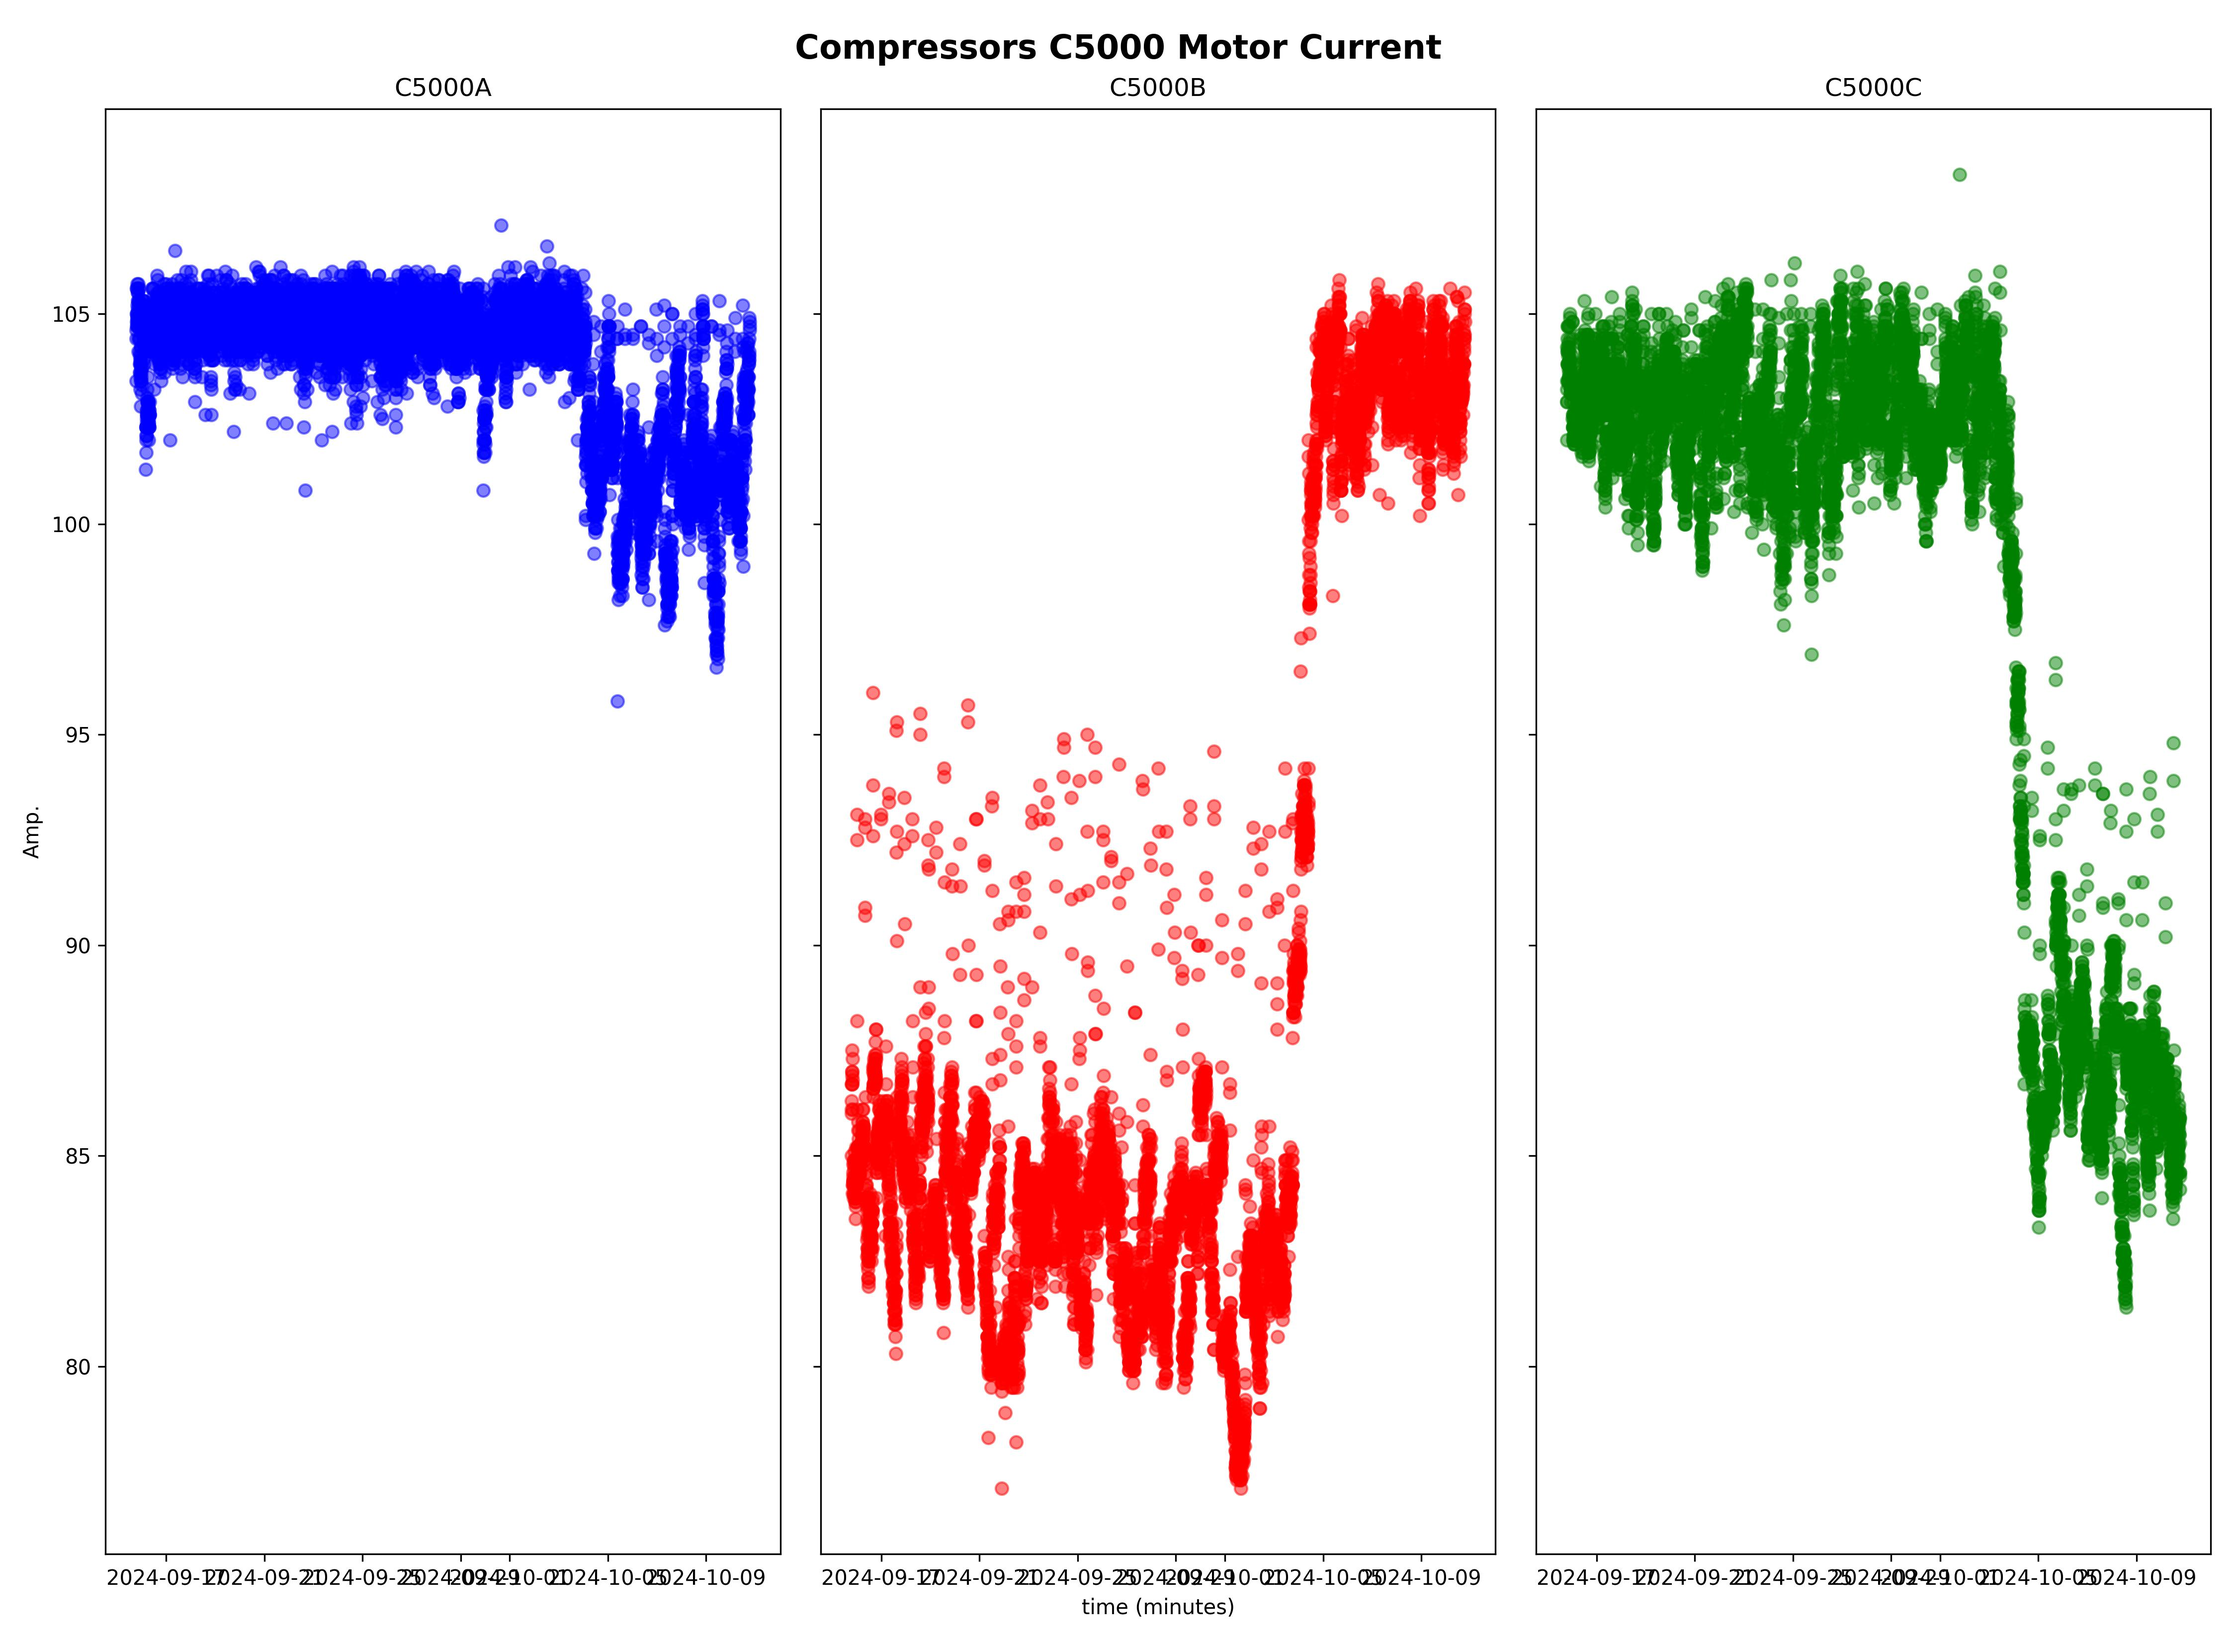
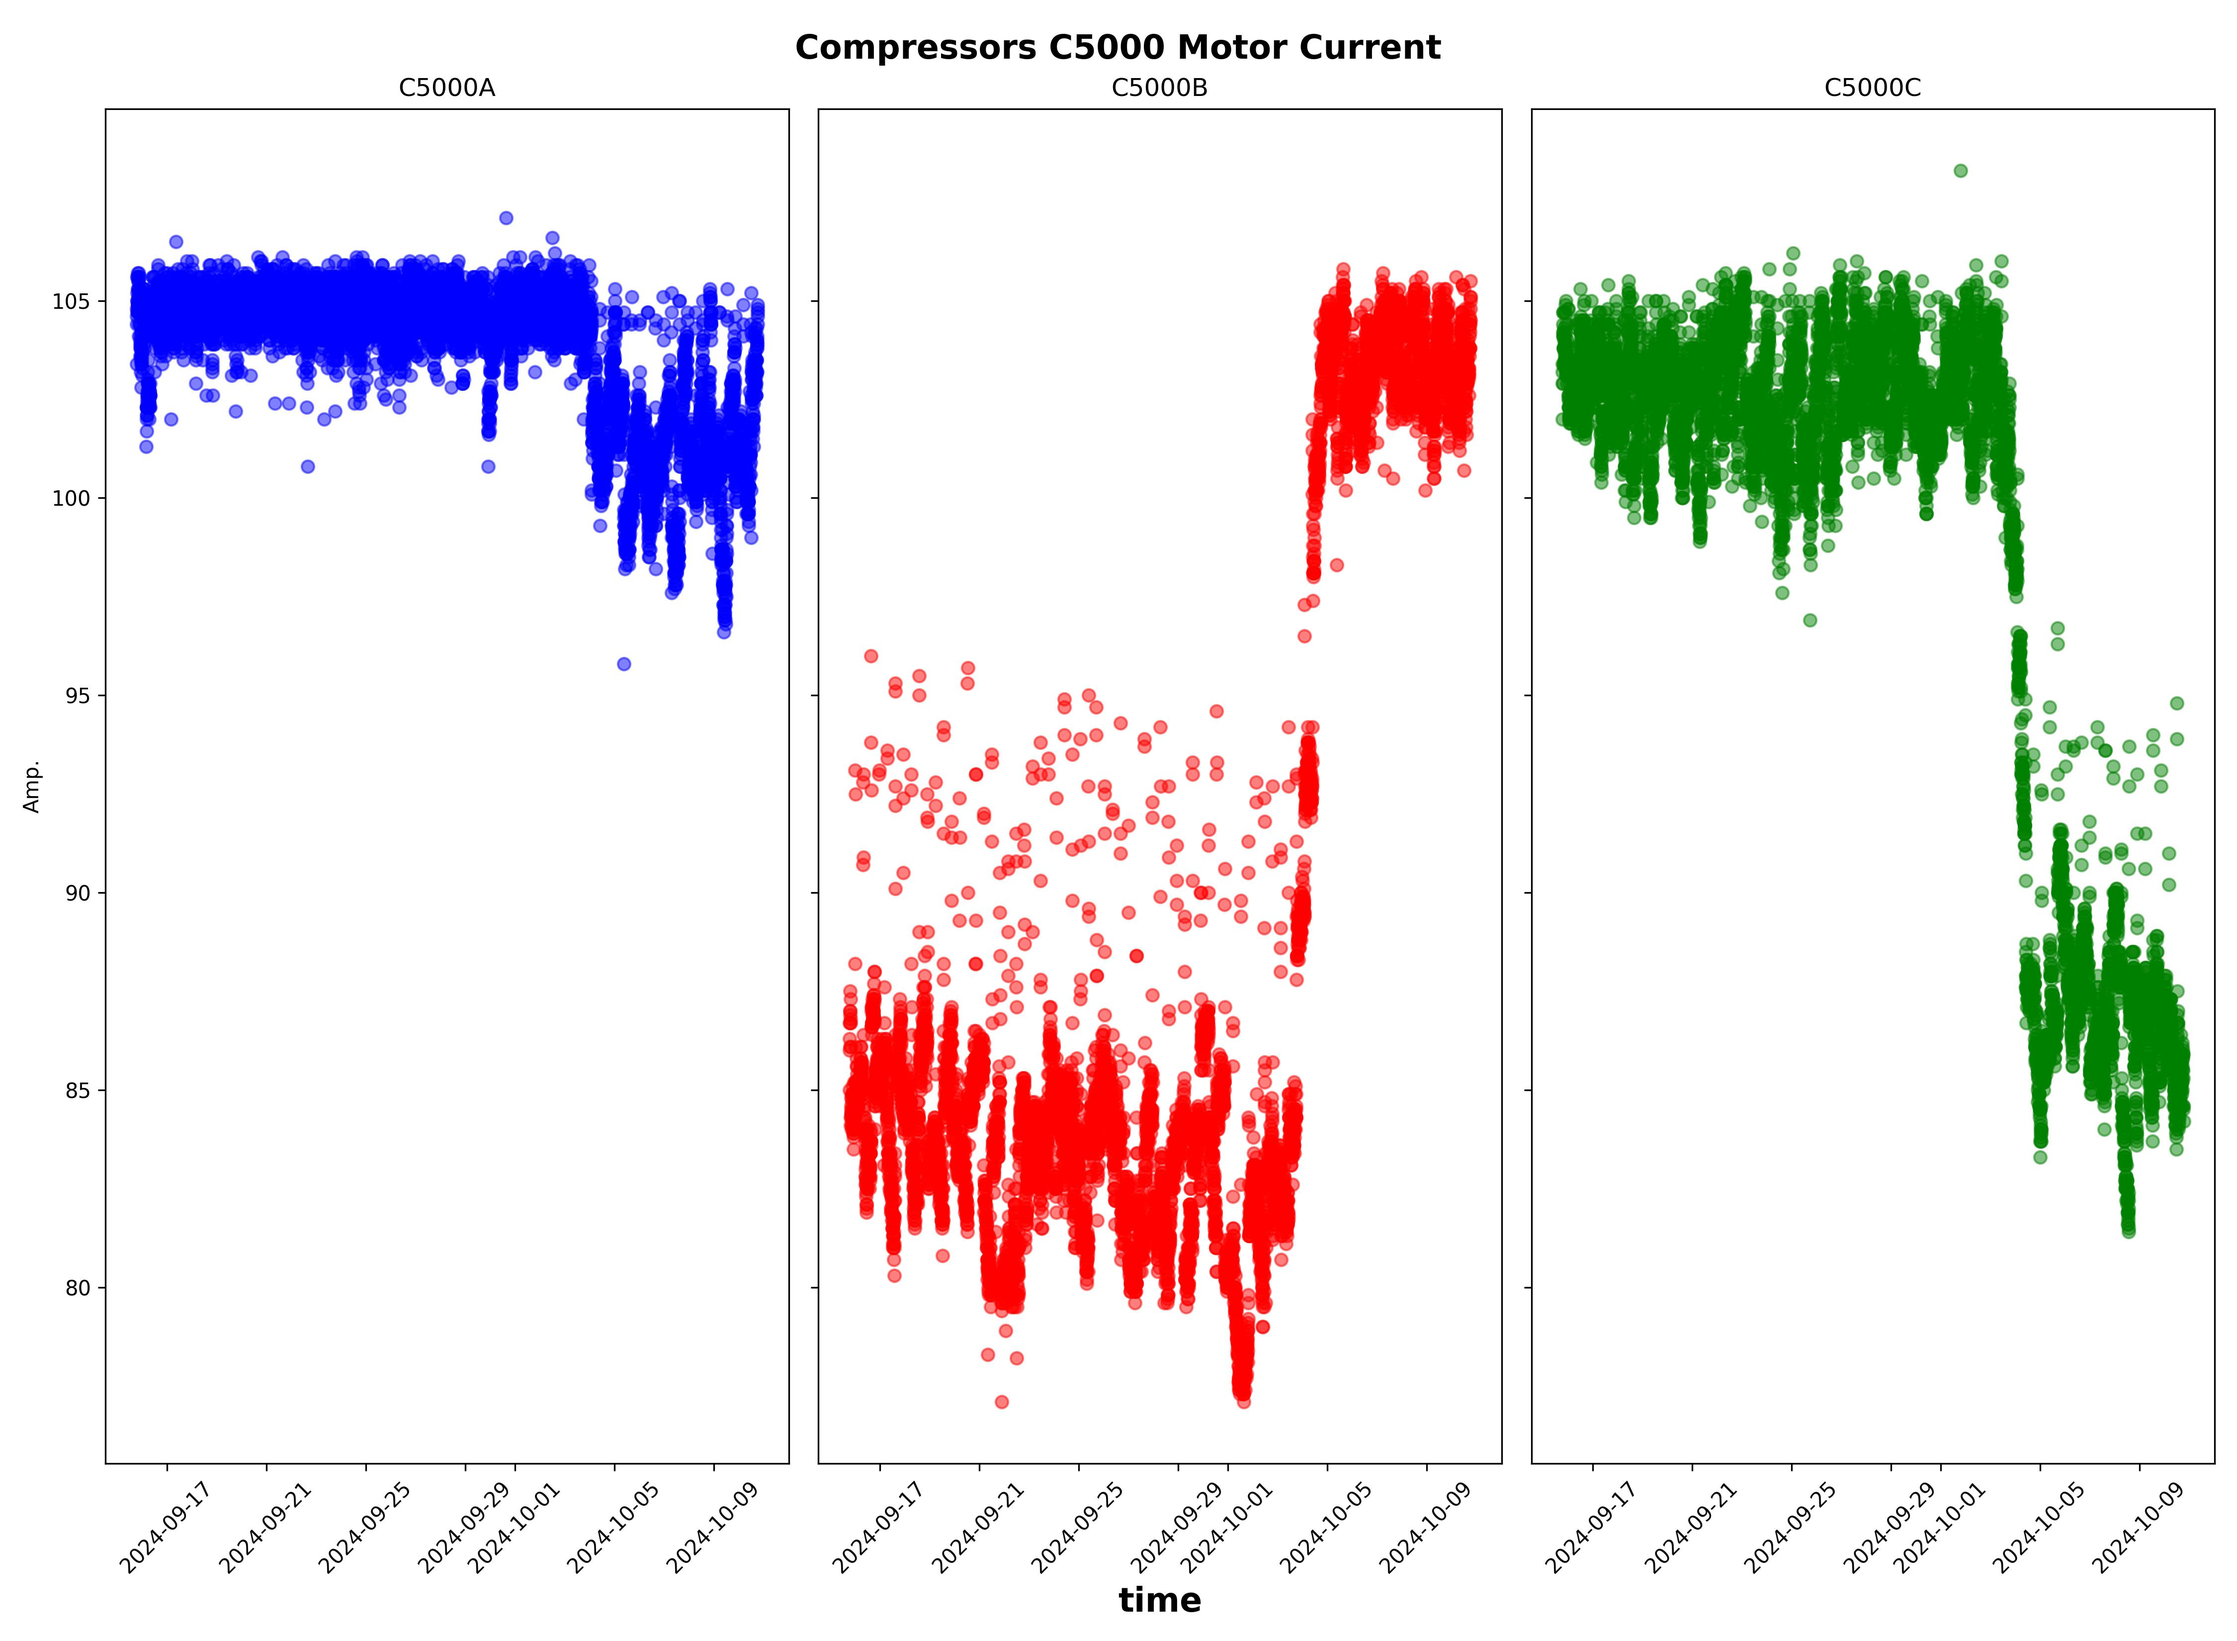
update

diff --git a/code/oxy.py b/code/oxy.py
@@ -96,11 +96,14 @@ fig.suptitle('Compressors C5000 Motor Current', fontsize=16,fontweight='bold')
 ax1.scatter(x=df['tarikh'], y= df['CT001 Motor current (C5000A)'], color='blue', label='y1',alpha=0.5)
 ax1.set_title('C5000A')
 ax1.set_ylabel('Amp.')
+ax1.tick_params(axis="x",labelrotation=45)
 ax2.scatter(x=df['tarikh'], y= df['CT001 Motor current (C5000B)'], color='red', label='y2',alpha=0.5)
 ax2.set_title('C5000B')
-ax2.set_xlabel('time (minutes)')
+ax2.set_xlabel('time', fontsize=16,fontweight='bold')
+ax2.tick_params(axis="x",labelrotation=45)
 ax3.scatter(x=df['tarikh'], y= df['CT001 Motor current (C5000C)'], color='green', label='y3',alpha=0.5)
 ax3.set_title('C5000C')
+ax3.tick_params(axis="x",labelrotation=45)
 fig.tight_layout()
 #plt.savefig(f'{working_dir}/fig/C5000_Motor_Currents.jpg')
 plt.show()
@@ -184,10 +187,10 @@ plt.axvline(27793, c='green')
 plt.annotate('27793 RPM', xy =(27795, 0.0023),rotation = 90,ha='center', fontsize=6,alpha = 0.8) 
 #plt.axvline(210, c='red')
 #plt.annotate('224', xy =(224, 0.009),rotation = 90,ha='center', fontsize=16) 
-plt.savefig(f'{working_dir}/fig/tubine-speed-O2-purity.jpg')
+#plt.savefig(f'{working_dir}/fig/tubine-speed-O2-purity.jpg')
 plt.show()
 
 
 
 
-df.to_excel(f"{working_dir}/fig/output.xlsx",index=False)
+#df.to_excel(f"{working_dir}/fig/output.xlsx",index=False)
